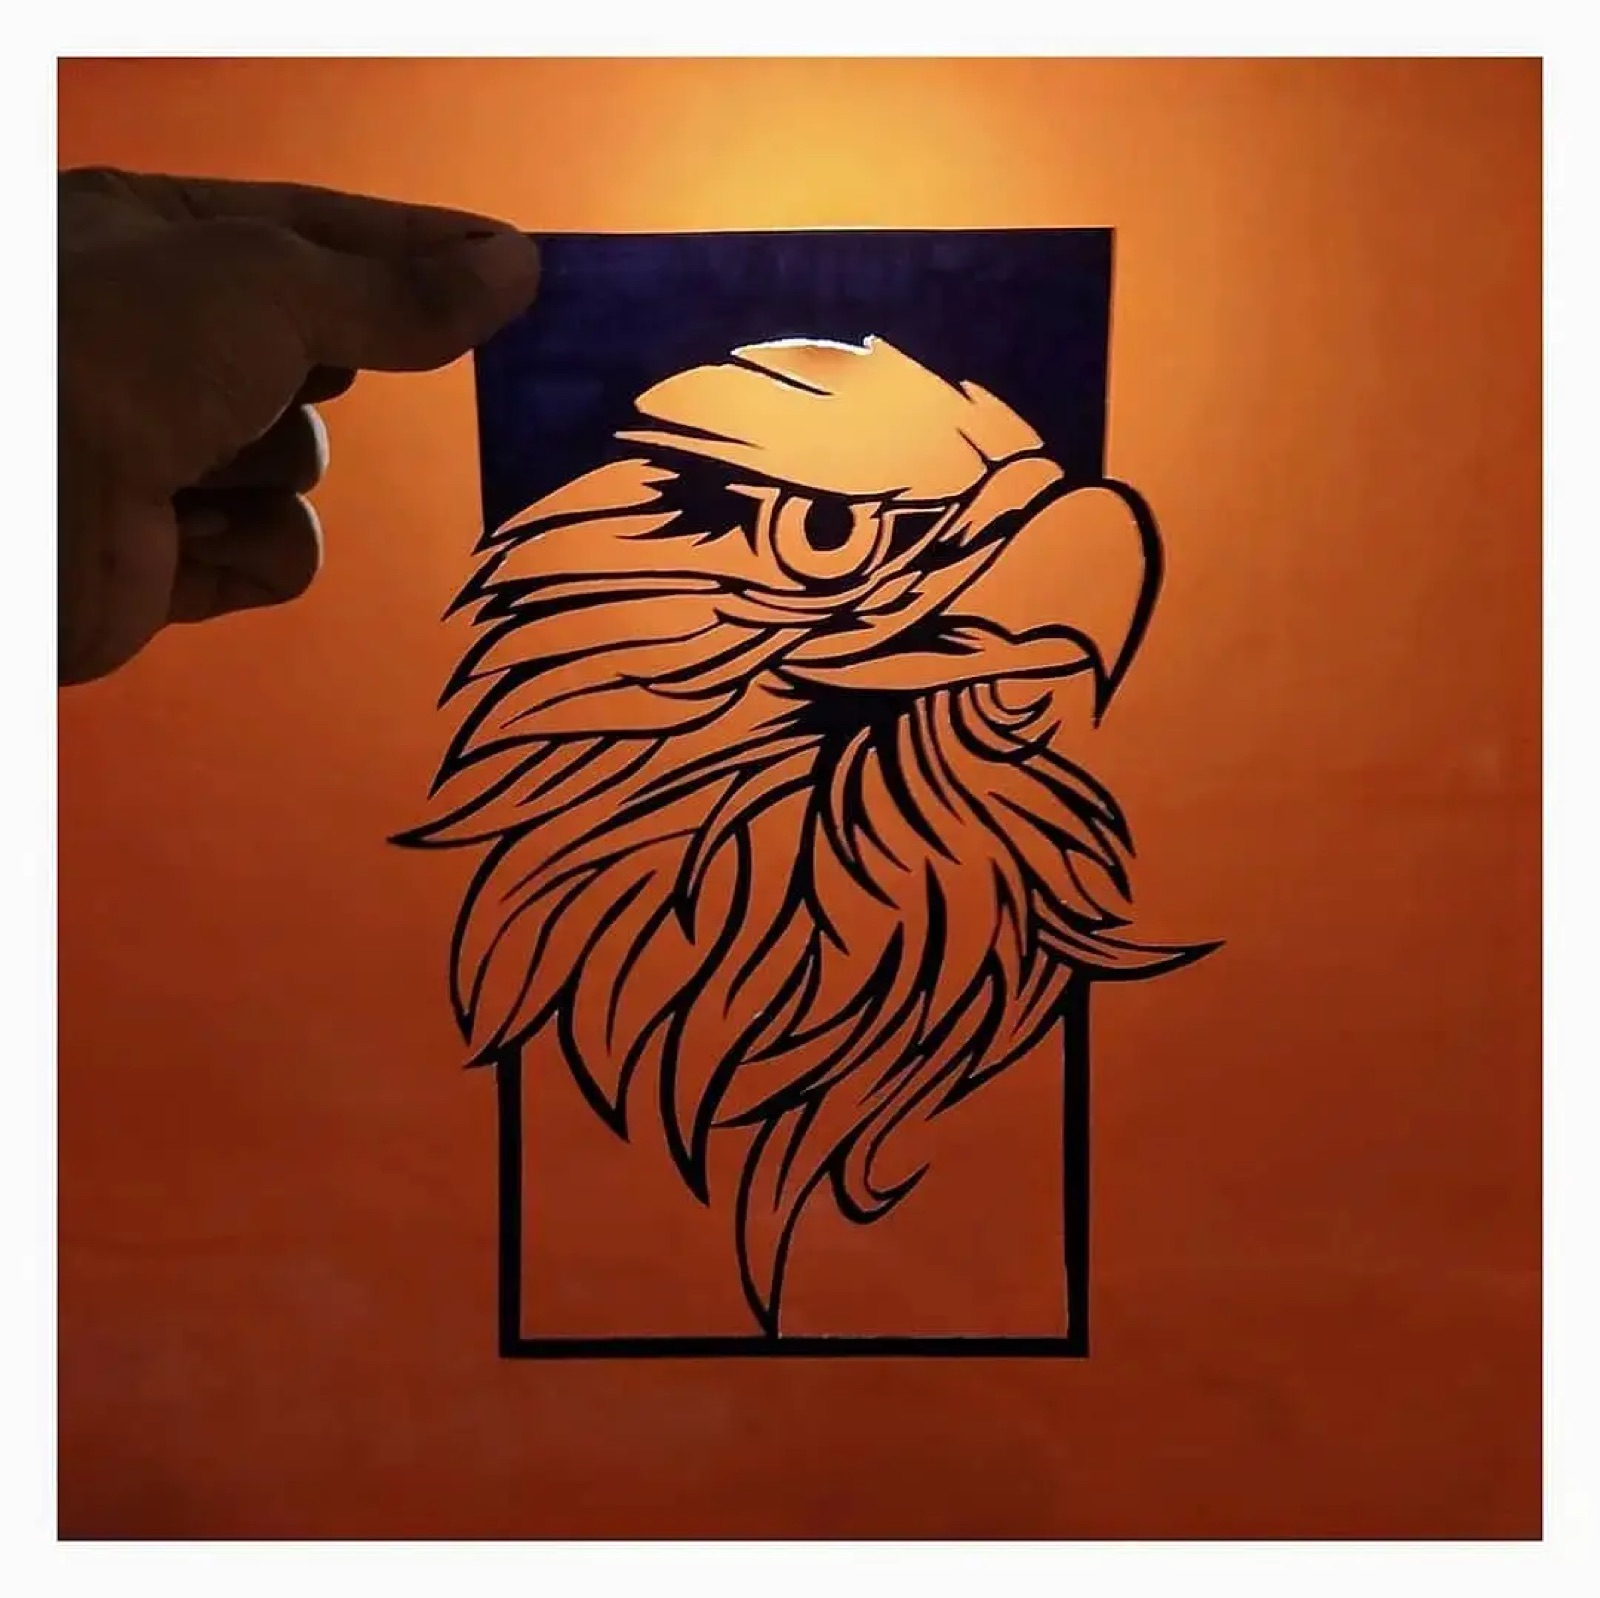
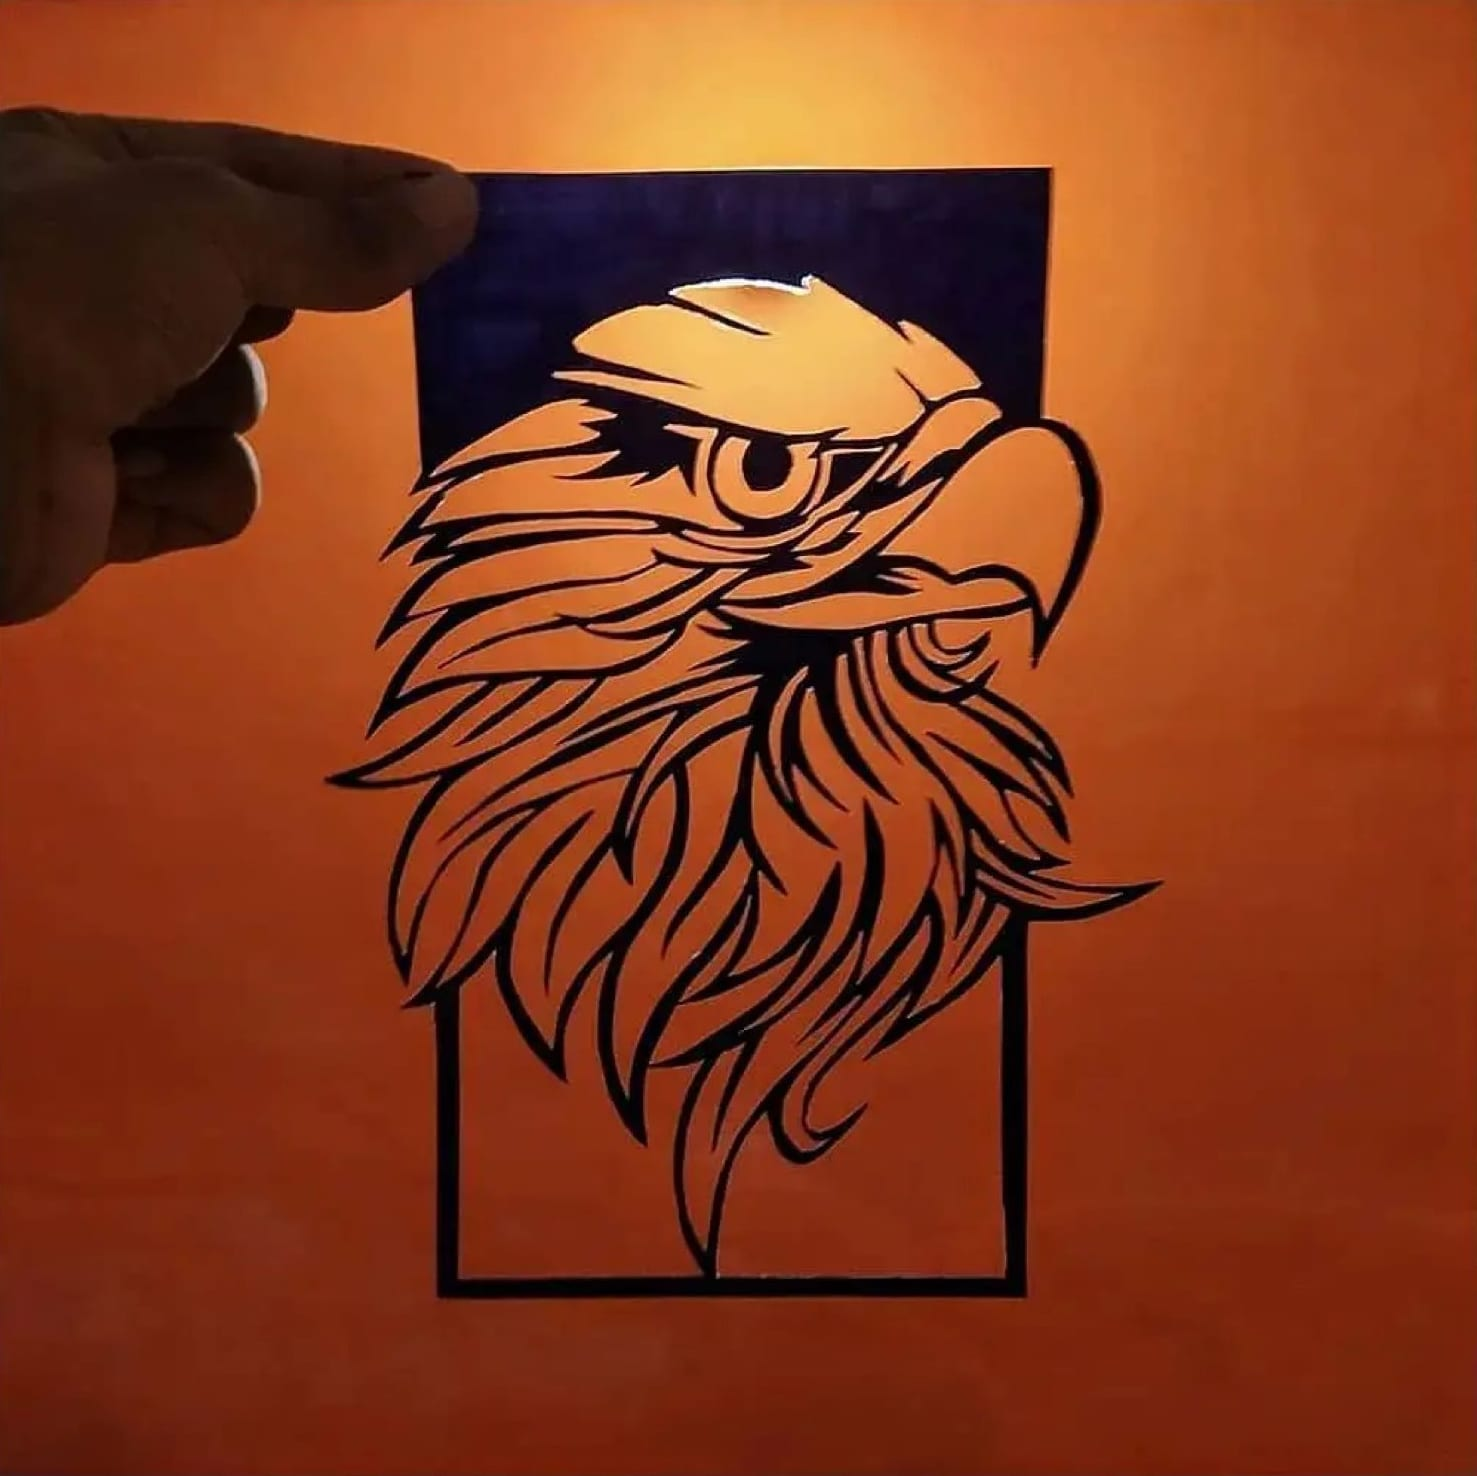
Contact options, trimmed artwork, Apple-style motion
- "Get in touch" opens a spring menu: Call, WhatsApp (pre-filled
  greeting), Instagram DM and Email; closes on outside click/Escape
- Trim white borders from On the Wings and Perfection Is a Flaw
- Apple-inspired motion: shared spring tokens, blur-to-sharp reveals
  for timeline, skills, art highlights and menu, press-to-dip buttons

diff --git a/components/GetInTouch.tsx b/components/GetInTouch.tsx
@@ -1,0 +1,100 @@
+"use client";
+
+import { AnimatePresence, motion } from "motion/react";
+import { useEffect, useRef, useState } from "react";
+import { site } from "@/lib/content";
+import { feedback } from "@/lib/feedback";
+import { SPRING_SNAPPY } from "@/lib/motion";
+import { Magnetic } from "./ui";
+
+const greeting = encodeURIComponent("Hi Mohit, I saw your portfolio and would love to connect.");
+
+const OPTIONS = [
+  { emoji: "📞", label: "Call", sub: site.phone.display, href: `tel:${site.phone.e164}` },
+  { emoji: "💬", label: "WhatsApp", sub: "Message me", href: `https://wa.me/${site.phone.e164.slice(1)}?text=${greeting}` },
+  { emoji: "📸", label: "Instagram", sub: "DM @mohit_kumar_singh", href: "https://ig.me/m/mohit_kumar_singh" },
+  { emoji: "✉", label: "Email", sub: site.email, href: `mailto:${site.email}` },
+];
+
+// The orange circle opens a small stack of ways to reach me — springs out like an iOS context menu.
+export function GetInTouch() {
+  const [open, setOpen] = useState(false);
+  const root = useRef<HTMLDivElement>(null);
+
+  useEffect(() => {
+    if (!open) return;
+    const onDown = (e: PointerEvent) => !root.current?.contains(e.target as Node) && setOpen(false);
+    const onKey = (e: KeyboardEvent) => e.key === "Escape" && setOpen(false);
+    window.addEventListener("pointerdown", onDown);
+    window.addEventListener("keydown", onKey);
+    return () => {
+      window.removeEventListener("pointerdown", onDown);
+      window.removeEventListener("keydown", onKey);
+    };
+  }, [open]);
+
+  return (
+    <div ref={root} className="relative">
+      <AnimatePresence>
+        {open && (
+          <motion.ul
+            id="contact-options"
+            className="absolute bottom-full left-0 z-20 mb-4 w-64 origin-bottom-left overflow-hidden rounded-2xl bg-paper p-1.5 text-ink shadow-2xl shadow-black/40 md:left-auto md:right-0 md:origin-bottom-right"
+            initial={{ opacity: 0, scale: 0.85, y: 12, filter: "blur(8px)" }}
+            animate={{ opacity: 1, scale: 1, y: 0, filter: "blur(0px)" }}
+            exit={{ opacity: 0, scale: 0.92, y: 8, filter: "blur(6px)", transition: { duration: 0.18 } }}
+            transition={SPRING_SNAPPY}
+          >
+            {OPTIONS.map((o, i) => (
+              <motion.li
+                key={o.label}
+                initial={{ opacity: 0, y: 8 }}
+                animate={{ opacity: 1, y: 0 }}
+                transition={{ ...SPRING_SNAPPY, delay: 0.03 + i * 0.035 }}
+              >
+                <a
+                  href={o.href}
+                  target={o.href.startsWith("http") ? "_blank" : undefined}
+                  rel="noreferrer"
+                  onClick={() => {
+                    feedback("tap");
+                    setOpen(false);
+                  }}
+                  className="flex items-center gap-3 rounded-xl px-3 py-2.5 transition-[background-color,scale] duration-200 hover:bg-ink/5 active:scale-[0.97]"
+                >
+                  <span className="emoji text-xl" aria-hidden>
+                    {o.emoji}
+                  </span>
+                  <span className="min-w-0">
+                    <span className="block text-sm font-medium">{o.label}</span>
+                    <span className="block truncate text-xs text-muted">{o.sub}</span>
+                  </span>
+                </a>
+              </motion.li>
+            ))}
+          </motion.ul>
+        )}
+      </AnimatePresence>
+
+      <Magnetic strength={0.5}>
+        <button
+          type="button"
+          aria-expanded={open}
+          aria-controls="contact-options"
+          onClick={() => {
+            feedback(open ? "close" : "open");
+            setOpen((v) => !v);
+          }}
+          className="flex size-40 items-center justify-center rounded-full bg-accent text-lg text-[#111] transition-[scale] duration-300 ease-out-expo hover:scale-105 active:scale-95 md:size-52"
+        >
+          <span className="inline-flex items-center gap-2">
+            Get in touch
+            <motion.span animate={{ rotate: open ? 45 : 0 }} transition={SPRING_SNAPPY} className="inline-block">
+              +
+            </motion.span>
+          </span>
+        </button>
+      </Magnetic>
+    </div>
+  );
+}

diff --git a/components/Contact.tsx b/components/Contact.tsx
@@ -4,6 +4,7 @@ import { AnimatePresence, motion } from "motion/react";
 import { useState } from "react";
 import { site } from "@/lib/content";
 import { feedback } from "@/lib/feedback";
+import { GetInTouch } from "./GetInTouch";
 import { LocalTime, Magnetic, RevealText, RollLink } from "./ui";
 
 export function Contact() {
@@ -45,7 +46,7 @@ export function Contact() {
               onClick={copyEmail}
               data-cursor={copied ? "Copied" : "Copy"}
               aria-label={`Copy email address ${site.email}`}
-              className="group relative block overflow-hidden rounded-full border border-paper/20 bg-ink px-8 py-5 text-left text-lg md:text-2xl"
+              className="press group relative block overflow-hidden rounded-full border border-paper/20 bg-ink px-8 py-5 text-left text-lg md:text-2xl"
             >
               <span className="absolute inset-0 translate-y-full rounded-full bg-accent transition-transform duration-700 ease-out-expo group-hover:translate-y-0" />
               <span className="relative flex items-center gap-4">
@@ -68,17 +69,7 @@ export function Contact() {
           <span role="status" className="sr-only">
             {copied ? "Email address copied" : ""}
           </span>
-          <Magnetic strength={0.5} className="relative">
-            <a
-              href={`mailto:${site.email}`}
-              onClick={() => feedback("tap")}
-              className="flex size-40 items-center justify-center rounded-full bg-accent text-lg text-[#111] transition-transform duration-500 ease-out-expo hover:scale-105 md:size-52"
-            >
-              <span className="inline-flex items-center gap-2">
-                Get in touch ↗
-              </span>
-            </a>
-          </Magnetic>
+          <GetInTouch />
         </div>
 
         <footer className="flex flex-col gap-8 text-sm md:flex-row md:items-end md:justify-between">

diff --git a/components/Art.tsx b/components/Art.tsx
@@ -3,7 +3,7 @@
 import Image from "next/image";
 import { motion } from "motion/react";
 import { art, artworks } from "@/lib/content";
-import { EASE_OUT } from "@/lib/motion";
+import { EASE_OUT, FADE_UP, SPRING_GENTLE } from "@/lib/motion";
 import { Magnetic, RevealText } from "./ui";
 
 // The artist side: murals, the café, the fine-art society — plus a gallery once photos are added.
@@ -33,7 +33,7 @@ export function Art() {
               href={art.instagram.href}
               target="_blank"
               rel="noreferrer"
-              className="group relative block overflow-hidden rounded-full border border-ink/20 px-5 py-3 text-sm"
+              className="press group relative block overflow-hidden rounded-full border border-ink/20 px-5 py-3 text-sm"
             >
               <span className="absolute inset-0 translate-y-full rounded-full bg-accent transition-transform duration-500 ease-out-expo group-hover:translate-y-0" />
               <span className="relative">Follow {art.instagram.handle} ↗</span>
@@ -46,10 +46,8 @@ export function Art() {
             <motion.li
               key={h.title}
               className="relative border-t border-line py-7"
-              initial={{ opacity: 0, y: 24 }}
-              whileInView={{ opacity: 1, y: 0 }}
-              viewport={{ once: true, margin: "0px 0px -10% 0px" }}
-              transition={{ duration: 0.8, ease: EASE_OUT, delay: (i % 2) * 0.1 }}
+              {...FADE_UP}
+              transition={{ ...SPRING_GENTLE, delay: (i % 2) * 0.08 }}
             >
               <span className="mb-4 block text-xs text-muted">{String(i + 1).padStart(2, "0")}</span>
               <h3 className="mb-2 text-2xl tracking-tight md:text-3xl">{h.title}</h3>

diff --git a/components/MobileMenu.tsx b/components/MobileMenu.tsx
@@ -3,7 +3,7 @@
 import { AnimatePresence, motion } from "motion/react";
 import { useEffect, useRef } from "react";
 import { site } from "@/lib/content";
-import { EASE_IN_OUT, EASE_OUT } from "@/lib/motion";
+import { EASE_IN_OUT, SPRING_GENTLE } from "@/lib/motion";
 import { feedback } from "@/lib/feedback";
 import { useScrollControls } from "./Experience";
 
@@ -69,10 +69,10 @@ export function MobileMenu({ open, onClose, links }: { open: boolean; onClose: (
                 href={l.href}
                 onClick={(e) => go(e, l.href)}
                 className="flex items-baseline gap-4 border-b border-paper/10 py-3 text-5xl tracking-tight"
-                initial={{ opacity: 0, y: 40 }}
-                animate={{ opacity: 1, y: 0 }}
+                initial={{ opacity: 0, y: 40, filter: "blur(6px)" }}
+                animate={{ opacity: 1, y: 0, filter: "blur(0px)" }}
                 exit={{ opacity: 0, y: 20, transition: { duration: 0.2 } }}
-                transition={{ duration: 0.7, ease: EASE_OUT, delay: 0.25 + i * 0.06 }}
+                transition={{ ...SPRING_GENTLE, delay: 0.2 + i * 0.05 }}
               >
                 <span className="text-xs text-paper/40">{String(i + 1).padStart(2, "0")}</span>
                 <span className={i % 2 ? "font-serif italic" : ""}>{l.label}</span>

diff --git a/components/Journey.tsx b/components/Journey.tsx
@@ -3,7 +3,7 @@
 import { motion, useScroll, useSpring } from "motion/react";
 import { useRef } from "react";
 import { timeline } from "@/lib/content";
-import { EASE_OUT } from "@/lib/motion";
+import { FADE_UP, SPRING_GENTLE } from "@/lib/motion";
 import { RevealText } from "./ui";
 
 // Year-by-year timeline; the vertical rule draws itself as you scroll through it.
@@ -49,10 +49,8 @@ export function Journey() {
                 {entry.items.map((item, i) => (
                   <motion.div
                     key={item.title}
-                    initial={{ opacity: 0, y: 20 }}
-                    whileInView={{ opacity: 1, y: 0 }}
-                    viewport={{ once: true, margin: "0px 0px -10% 0px" }}
-                    transition={{ duration: 0.8, ease: EASE_OUT, delay: 0.1 + i * 0.1 }}
+                    {...FADE_UP}
+                    transition={{ ...SPRING_GENTLE, delay: 0.08 + i * 0.08 }}
                   >
                     <h3 className="mb-2 text-xl tracking-tight">{item.title}</h3>
                     <p className="max-w-sm leading-snug text-muted">{item.detail}</p>

diff --git a/components/Skills.tsx b/components/Skills.tsx
@@ -2,7 +2,7 @@
 
 import { motion } from "motion/react";
 import { skills } from "@/lib/content";
-import { EASE_OUT } from "@/lib/motion";
+import { EASE_OUT, SPRING_GENTLE } from "@/lib/motion";
 import { RevealText } from "./ui";
 
 export function Skills() {
@@ -42,8 +42,11 @@ export function Skills() {
               {g.items.map((s) => (
                 <motion.li
                   key={s}
-                  variants={{ hidden: { opacity: 0, y: 14 }, show: { opacity: 1, y: 0 } }}
-                  transition={{ duration: 0.6, ease: EASE_OUT }}
+                  variants={{
+                    hidden: { opacity: 0, y: 14, filter: "blur(6px)" },
+                    show: { opacity: 1, y: 0, filter: "blur(0px)" },
+                  }}
+                  transition={SPRING_GENTLE}
                   className="rounded-full border border-ink/15 px-4 py-2 text-sm transition-colors duration-300 hover:border-ink hover:bg-ink hover:text-paper"
                 >
                   {s}

diff --git a/lib/motion.ts b/lib/motion.ts
@@ -2,3 +2,14 @@
 export const EASE_OUT = [0.22, 1, 0.36, 1] as const;
 export const EASE_IN_OUT = [0.76, 0, 0.24, 1] as const;
 export const SPRING = { stiffness: 350, damping: 30, mass: 0.6 };
+
+// Apple-style springs: physical, no overshoot you can see, settle quickly.
+export const SPRING_SNAPPY = { type: "spring", stiffness: 420, damping: 32, mass: 0.8 } as const;
+export const SPRING_GENTLE = { type: "spring", stiffness: 110, damping: 22, mass: 1 } as const;
+
+// Content arriving on scroll: a short rise that comes into focus (blur → sharp), like apple.com.
+export const FADE_UP = {
+  initial: { opacity: 0, y: 24, filter: "blur(8px)" },
+  whileInView: { opacity: 1, y: 0, filter: "blur(0px)" },
+  viewport: { once: true, margin: "0px 0px -10% 0px" },
+} as const;

diff --git a/components/Hero.tsx b/components/Hero.tsx
@@ -96,7 +96,7 @@ export function Hero() {
                   <a
                     href="#contact"
                     onClick={() => feedback("tap")}
-                    className="group relative block overflow-hidden rounded-full bg-ink px-6 py-3 text-sm text-paper"
+                    className="press group relative block overflow-hidden rounded-full bg-ink px-6 py-3 text-sm text-paper"
                   >
                     <span className="absolute inset-0 translate-y-full rounded-full bg-accent transition-transform duration-500 ease-out-expo group-hover:translate-y-0" />
                     <span className="relative">Let&apos;s talk</span>

diff --git a/components/ThemeToggle.tsx b/components/ThemeToggle.tsx
@@ -56,7 +56,7 @@ export function ThemeToggle() {
       type="button"
       onClick={toggle}
       aria-label={dark ? "Switch to light theme" : "Switch to dark theme"}
-      className="-m-3 flex size-11 items-center justify-center"
+      className="press -m-3 flex size-11 items-center justify-center"
     >
       {/* Sun that morphs into a crescent moon */}
       <svg viewBox="0 0 24 24" width="20" height="20" aria-hidden>

diff --git a/components/Nav.tsx b/components/Nav.tsx
@@ -67,7 +67,7 @@ export function Nav() {
             }}
             aria-expanded={menuOpen}
             aria-controls="mobile-menu"
-            className="-m-3 flex items-center gap-2 p-3 sm:hidden"
+            className="press -m-3 flex items-center gap-2 p-3 sm:hidden"
           >
             <span className="flex w-4 flex-col gap-[3px]" aria-hidden>
               <span className="h-px w-full bg-current" />

diff --git a/app/globals.css b/app/globals.css
@@ -157,3 +157,11 @@ html.has-cursor * {
 @media (prefers-reduced-motion: reduce) {
   .emoji-wiggle, .emoji-spin, .emoji-sway, .group:hover .emoji-wiggle { animation: none !important; }
 }
+
+/* Apple-style press: the control dips slightly while held, then settles back. */
+.press {
+  transition: scale 0.25s cubic-bezier(0.25, 0.1, 0.25, 1);
+}
+.press:active {
+  scale: 0.96;
+}

diff --git a/components/SoundToggle.tsx b/components/SoundToggle.tsx
@@ -17,7 +17,7 @@ export function SoundToggle() {
         setSoundOn(!on);
         if (!on) feedback("toggle");
       }}
-      className="-m-3 flex size-11 items-center justify-center"
+      className="press -m-3 flex size-11 items-center justify-center"
     >
       <span className="flex h-3.5 items-end gap-[3px]" aria-hidden>
         {[0, 1, 2].map((i) => (
